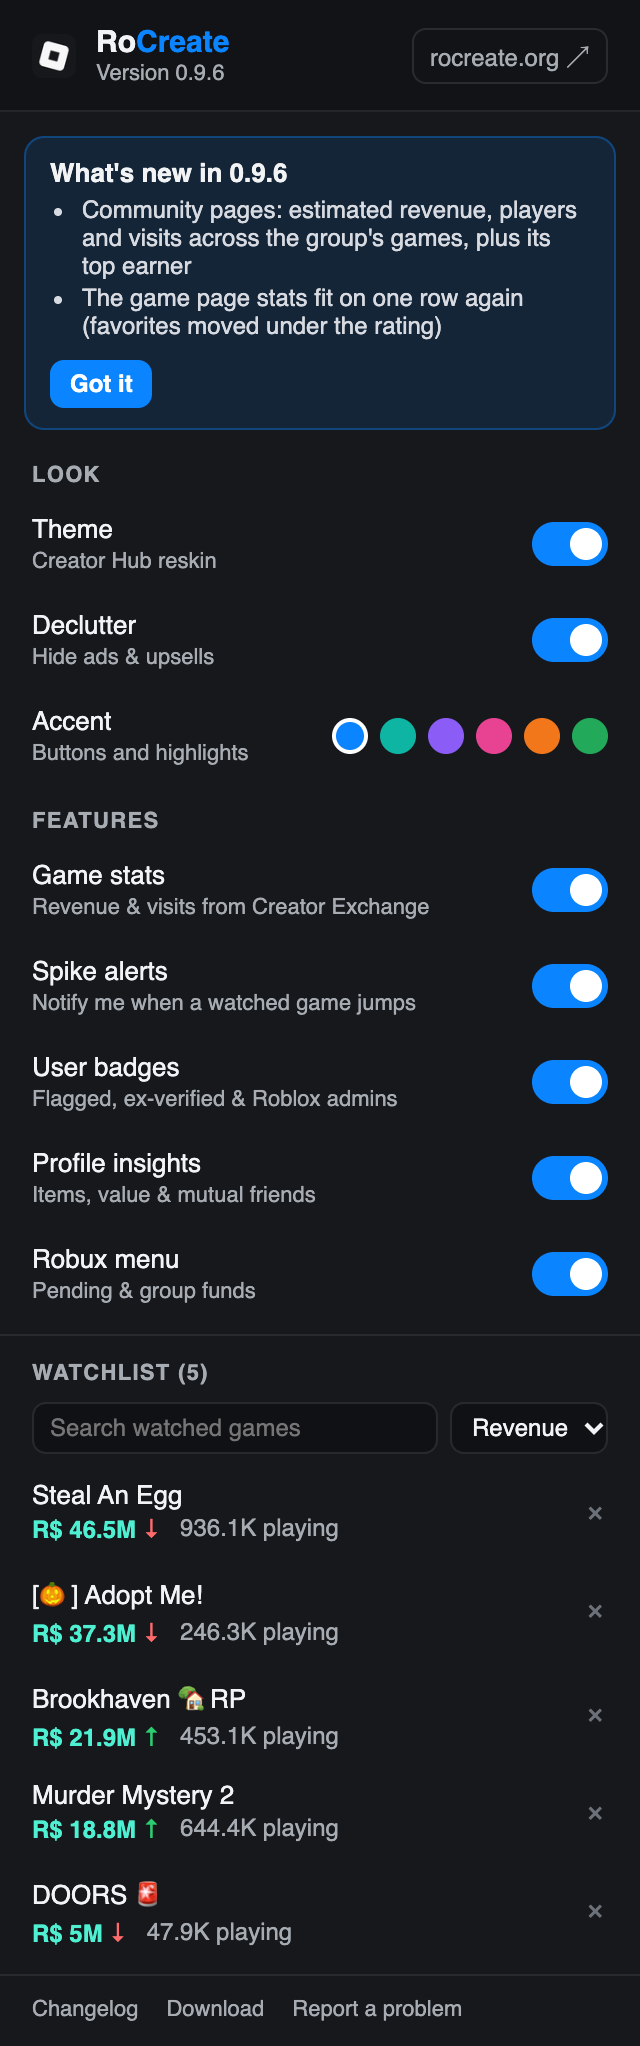
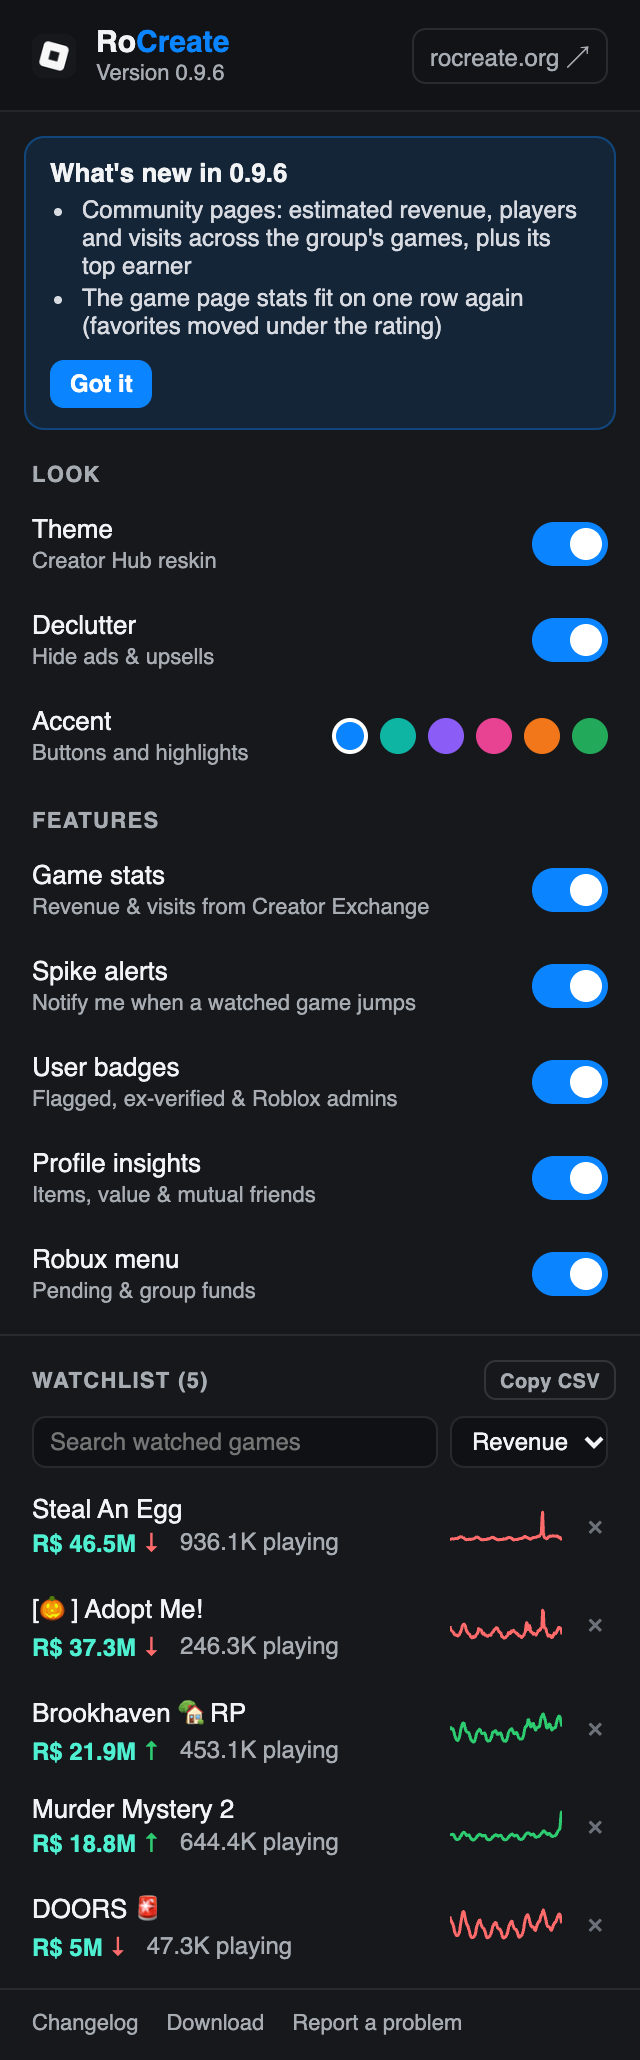
0.9.7: watchlist sparklines and CSV copy; per-player numbers in the card panel

diff --git a/extensions/theme/popup.js b/extensions/theme/popup.js
@@ -83,7 +83,20 @@ function el(tag, cls, text) {
   return Object.assign(document.createElement(tag), cls ? { className: cls } : {}, text != null ? { textContent: text } : {});
 }
 
-let watched = [], stats = {};
+let watched = [], stats = {}, hist = {};
+// a 7-day players line for a watched game
+function spark(points) {
+  const w = 56, h = 18, ys = points.map((p) => p[1]);
+  const lo = Math.min(...ys), span = Math.max(...ys) - lo || 1;
+  const t0 = points[0][0], tspan = points[points.length - 1][0] - t0 || 1;
+  const d = points.map(([t, v], i) => `${i ? "L" : "M"}${(((t - t0) / tspan) * w).toFixed(1)},${(h - 2 - ((v - lo) / span) * (h - 4)).toFixed(1)}`).join("");
+  const svg = document.createElementNS("http://www.w3.org/2000/svg", "svg");
+  svg.setAttribute("viewBox", `0 0 ${w} ${h}`);
+  svg.setAttribute("class", "spark " + (ys[ys.length - 1] >= ys[0] ? "up" : "down"));
+  svg.innerHTML = `<path d="${d}"/>`;
+  svg.append(Object.assign(document.createElementNS("http://www.w3.org/2000/svg", "title"), { textContent: "Players, last 7 days" }));
+  return svg;
+}
 const search = document.getElementById("wl-search"), sorter = document.getElementById("wl-sort");
 chrome.storage.local.get({ "rc:wlSort": "added" }, (s) => (sorter.value = s["rc:wlSort"]));
 search.addEventListener("input", () => render());
@@ -121,6 +134,7 @@ function render() {
     const players = el("span", "num", s.playing != null ? fmt(s.playing) + " playing" : "not tracked");
     const rev = el("span", "num rev", s.revenue != null ? "R$ " + fmt(s.revenue) : "");
     if (s.revenueTrend) rev.append(el("span", s.revenueTrend >= 0 ? "up" : "down", s.revenueTrend >= 0 ? " ↑" : " ↓"));
+    const line = hist[g.id]?.points?.length >= 3 ? spark(hist[g.id].points) : el("span");
     const x = el("button", "", "×");
     x.title = "Remove from watchlist";
     x.addEventListener("click", () => chrome.storage.sync.set({ watch: watched.filter((w) => w.id !== g.id) }));
@@ -128,7 +142,7 @@ function render() {
     const meta = el("div", "meta");
     meta.append(rev, players);
     left.append(a, meta);
-    row.append(left, x);
+    row.append(left, line, x);
     return row;
   }));
 }
@@ -143,9 +157,35 @@ function load() {
       (got) => {
         stats = chrome.runtime.lastError ? {} : got || {};
         render();
+        loadHistory();
       },
     );
   });
 }
+// sparklines for the first dozen games, three requests at a time (cached for an hour)
+async function loadHistory() {
+  const todo = watched.slice(0, 12).filter((g) => !hist[g.id]);
+  for (let i = 0; i < todo.length; i += 3) {
+    await Promise.all(todo.slice(i, i + 3).map((g) => new Promise((r) => {
+      chrome.runtime.sendMessage({ type: "rcx-history", id: String(g.id) }, (h) => {
+        if (!chrome.runtime.lastError && h) hist[g.id] = h;
+        r();
+      });
+    })));
+    render();
+  }
+}
+
+// the watchlist as CSV, for spreadsheets
+document.getElementById("wl-csv").addEventListener("click", (e) => {
+  const q = (v) => `"${String(v ?? "").replace(/"/g, '""')}"`;
+  const rows = [["Name", "Universe ID", "Place ID", "Playing", "Est. revenue (R$)", "Revenue trend (%)"]].concat(
+    watched.map((g) => { const s = stats[g.id] || {}; return [s.name || g.name, g.id, g.place, s.playing, s.revenue, s.revenueTrend]; }));
+  navigator.clipboard.writeText(rows.map((r) => r.map(q).join(",")).join("\n")).then(() => {
+    e.target.textContent = "Copied";
+    setTimeout(() => (e.target.textContent = "Copy CSV"), 1200);
+  });
+});
+
 chrome.storage.onChanged.addListener((c, area) => area === "sync" && c.watch && load());
 load();

diff --git a/extensions/theme/popup.html b/extensions/theme/popup.html
@@ -60,8 +60,13 @@
   .tools input { flex: 1; min-width: 0; background: #0f1114; border: 1px solid rgba(255,255,255,0.1); border-radius: 7px; color: #f2f3f5; padding: 5px 8px; font-size: 12px; font-family: inherit; }
   .tools select { background: #0f1114; border: 1px solid rgba(255,255,255,0.1); border-radius: 7px; color: #f2f3f5; padding: 4px 6px; font-size: 12px; font-family: inherit; }
   #watch { max-height: 280px; overflow-y: auto; padding-bottom: 6px; }
+  .mini { background: none; border: 1px solid rgba(255,255,255,0.12); color: #a7acb3; border-radius: 6px; padding: 2px 7px; font-weight: 600; font-size: 10px; line-height: 1.4; font-family: inherit; letter-spacing: .02em; cursor: pointer; text-transform: none; }
+  .mini:hover { color: #f2f3f5; border-color: rgba(255,255,255,0.3); }
+  .spark { width: 56px; height: 18px; }
+  .spark path { fill: none; stroke-width: 1.5; stroke-linejoin: round; }
+  .spark.up path { stroke: #2ecc71; } .spark.down path { stroke: #ff6b6b; }
   .game {
-    display: grid; grid-template-columns: 1fr auto; gap: 10px; align-items: center;
+    display: grid; grid-template-columns: 1fr auto auto; gap: 10px; align-items: center;
     padding: 7px 16px; font-size: 13px;
   }
   .game:hover { background: rgba(255,255,255,0.04); }
@@ -128,7 +133,7 @@
   </div>
 
   <div id="watchlist">
-    <div class="section wl-head"><span>Watchlist <span id="wl-count"></span></span></div>
+    <div class="section wl-head"><span>Watchlist <span id="wl-count"></span></span><button type="button" id="wl-csv" class="mini" title="Copy the watchlist as CSV">Copy CSV</button></div>
     <div class="tools" id="wl-tools" hidden>
       <input type="search" id="wl-search" placeholder="Search watched games">
       <select id="wl-sort" title="Sort">

diff --git a/extensions/theme/stats.js b/extensions/theme/stats.js
@@ -370,7 +370,9 @@
       `<div class="rcx-spark-title">${esc(st.name || nameOf(a))}</div>` +
       `<div class="rcx-spark-facts"><div><i>Est. revenue</i><b>R$ ${fmt(st.revenue)}</b>${arrow(st.revenueTrend)}` +
       (st.revenueTrend == null ? "" : ` <span class="${st.revenueTrend >= 0 ? "rcx-up" : "rcx-down"}">${pct(st.revenueTrend)}</span>`) +
-      `</div><div><i>Visits</i><b>${fmt(st.visits, 1)}</b></div></div>` + graph;
+      `</div><div><i>Visits</i><b>${fmt(st.visits, 1)}</b></div>` +
+      (st.revenue != null && st.playing > 0 ? `<div><i>Per player</i><b>R$ ${fmt(st.revenue / st.playing)}</b></div><div><i>Playing</i><b>${fmt(st.playing)}</b></div>` : "") +
+      `</div>` + graph;
     // beside the card, not over it: Roblox's own hover card (Play button) opens below the thumbnail
     const r = (a.querySelector(THUMB) || a).getBoundingClientRect();
     const W = 244, H = el.offsetHeight || 160;
